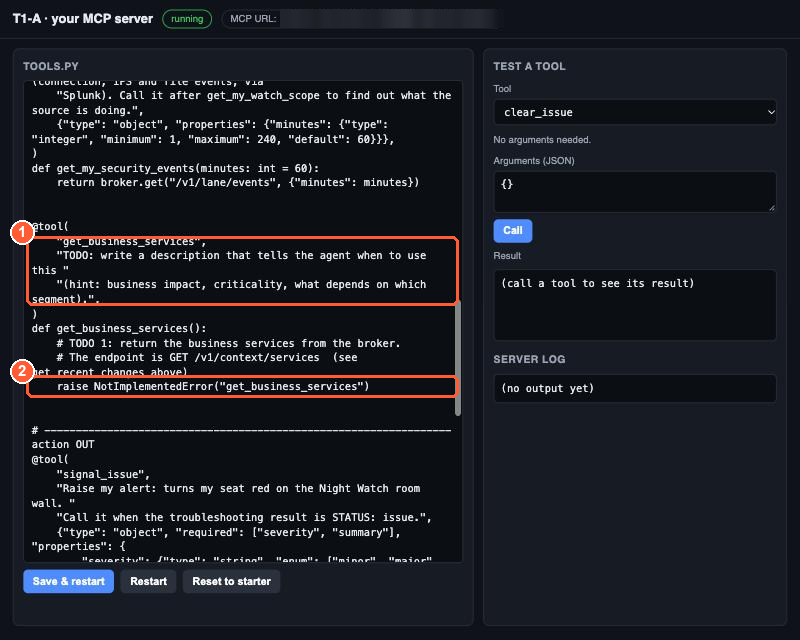
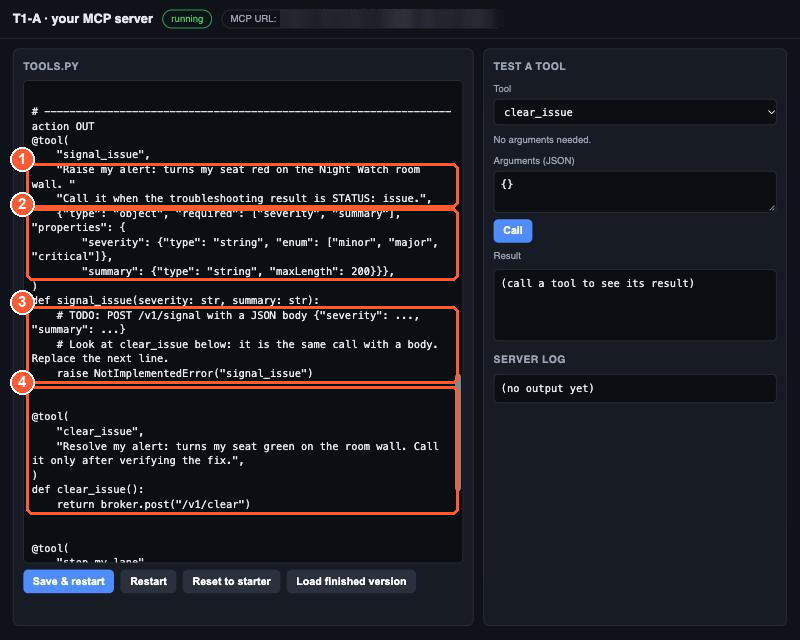
Deployed 16ea3e3 with MkDocs version: 1.6.1

Changed region(s): [[0.0, 0.125, 0.5938, 0.9062], [0.3438, 0.875, 0.5312, 0.9375]]

diff --git a/part2/3-3-custom-workflow/index.html b/part2/3-3-custom-workflow/index.html
@@ -1381,11 +1381,21 @@ tenant would then act as your seat.</p>
 </li>
 </ul>
 <h2 id="b-your-own-workflow-pick-one-25-min">B. Your own workflow (pick one, 25 min)<a class="headerlink" href="#b-your-own-workflow-pick-one-25-min" title="Permanent link">¶</a></h2>
+<div class="admonition info">
+<p class="admonition-title">Step B is practice, not setup</p>
+<p>Your agent already has everything it needs for Lights Out from step A. Step B is where you learn how
+a custom integration is built, so you can do the same with your own company's systems later. Pick
+<strong>one</strong> path. <strong>Path A</strong> needs no code. <strong>Path B</strong> shows the code behind a tool: one small edit, and
+a button that fills in the answer if you would rather just see it work.</p>
+</div>
 <div class="tabbed-set tabbed-alternate" data-tabs="1:2"><input checked="checked" id="__tabbed_1_1" name="__tabbed_1" type="radio"><input id="__tabbed_1_2" name="__tabbed_1" type="radio"><div class="tabbed-labels"><label for="__tabbed_1_1">Path A: REST API (no code)</label><label for="__tabbed_1_2">Path B: MCP server (code)</label></div>
 <div class="tabbed-content">
 <div class="tabbed-block">
-<p>You import the Lab Actions API from its OpenAPI spec and make it <em>yours</em> by rewriting how the
-agent should use each operation.</p>
+<p><strong>What you are building.</strong> Most company systems already have a REST API described by an <strong>OpenAPI
+spec</strong>: a file listing every operation, its URL and its arguments. Studio can turn that spec straight
+into tools for your agent, with no code. Here you import the Lab Actions spec and make it <em>yours</em> by
+rewriting the <strong>descriptions</strong>: the sentences the agent reads to decide when to call each operation.
+A spec says <em>what</em> an operation does; your description says <em>when</em> your agent should use it.</p>
 <ol>
 <li><strong>Studio → Build → Integrations → Add → REST API</strong>.</li>
 <li><strong>Spec URL</strong>: paste your <strong>Lab Actions spec URL</strong> (or download it and upload the file).</li>
@@ -1437,12 +1447,49 @@ curl<span class="w"> </span>-s<span class="w"> </span>-X<span class="w"> </span>
 </code></pre></div>
 </div>
 <div class="tabbed-block">
-<p>You finish a small MCP server in Python and run it in your own <strong>MCP workspace</strong> on the lab
-server. Nothing to install: it runs in your browser.</p>
+<p><strong>What you are building.</strong> An <strong>MCP server</strong> is a small program that offers <em>tools</em> to an AI agent.
+Lab Tools from step A is one, written by the lab team. Here you run your own copy, finish one tool
+in it, and connect it to Studio: exactly what you would do to give an agent your own company's
+ticketing system, CMDB or any other API.</p>
+<p>Every tool has four parts. You will see them in the code:</p>
+<table>
+<thead>
+<tr>
+<th>Part</th>
+<th>What it is</th>
+<th>Who reads it</th>
+</tr>
+</thead>
+<tbody>
+<tr>
+<td><strong>Name</strong></td>
+<td>for example <code>signal_issue</code></td>
+<td>the agent, to call it</td>
+</tr>
+<tr>
+<td><strong>Description</strong></td>
+<td>one or two sentences on what it does and <em>when</em> to use it</td>
+<td>the agent, to decide whether to call it</td>
+</tr>
+<tr>
+<td><strong>Input schema</strong></td>
+<td>the arguments it takes, for example <code>severity</code> and <code>summary</code></td>
+<td>the agent, to fill in the call</td>
+</tr>
+<tr>
+<td><strong>Function</strong></td>
+<td>the Python that does the work, here one call to the Lab Tools API</td>
+<td>your server, when the agent calls</td>
+</tr>
+</tbody>
+</table>
+<p>Already done in your starter file: <code>get_recent_changes</code> and <code>get_business_services</code> (information <em>in</em>),
+and <code>clear_issue</code> (action <em>out</em>). <strong>Your one TODO is <code>signal_issue</code>.</strong> No time or no interest in code?
+Select <strong>Load finished version</strong> and skip to step 4.</p>
 <ol>
 <li>
-<p>Open <strong>Your MCP workspace</strong> and paste your seat token. You see your own copy of <code>tools.py</code>, a
-   test panel and your server's log.</p>
+<p><strong>Open your MCP workspace</strong> and paste your seat token. It is your own copy of the server, running
+   on the lab server. Nothing to install.</p>
 <div class="sc-copytable" markdown="">
 <table>
 <thead>
@@ -1463,56 +1510,46 @@ server. Nothing to install: it runs in your browser.</p>
 </tbody>
 </table>
 </div>
+<p><a class="glightbox" data-type="image" data-width="100%" data-height="auto" href="../../img/22-workspace-overview.png" data-desc-position="bottom"><img alt="22-workspace-overview" loading="lazy" src="../../img/22-workspace-overview.png"></a></p>
+<p><em>Your workspace: (1) <code>tools.py</code>, your server's code, (2) Save &amp; restart runs your edits, (3) Load finished version fills in the answer, (4) running or stopped, (5) Test a tool calls a tool the way an agent would, (6) Server log shows errors.</em></p>
 </li>
 <li>
-<p><strong>Find TODO 1.</strong> In the <code>tools.py</code> editor, scroll down to <code>def get_business_services():</code>. It has two
-   placeholders: a description that starts with <code>"TODO:</code> and a line that says
-   <code>raise NotImplementedError(...)</code>. Each TODO below is the same move: <strong>replace one line</strong> with a
-   line that calls the Lab Tools API. <code>get_recent_changes</code>, just above it, is a finished example.</p>
+<p><strong>Read the finished <code>clear_issue</code>, then find your TODO.</strong> Scroll down to the <code>action OUT</code> section.
+   <code>@tool(...)</code> registers a tool: its name, its description and its input schema. The function under
+   it is what runs. <code>clear_issue</code> is complete: <code>broker.post("/v1/clear")</code> sends an HTTPS POST to Lab
+   Tools with your seat token already attached, and whatever it returns goes back to the agent.
+   <code>signal_issue</code>, just above it, is the same idea with a body, and still says
+   <code>raise NotImplementedError(...)</code>.</p>
 <p><a class="glightbox" data-type="image" data-width="100%" data-height="auto" href="../../img/22a-workspace-todo.png" data-desc-position="bottom"><img alt="22a-workspace-todo" loading="lazy" src="../../img/22a-workspace-todo.png"></a></p>
-<p><em>TODO 1 in the editor: (1) the placeholder description (step 5), (2) the line to replace.</em></p>
+<p><em><code>signal_issue</code>: (1) the description the agent reads, (2) the input schema: severity and summary, (3) your TODO: the line to replace, (4) <code>clear_issue</code>, finished, as your example.</em></p>
 </li>
 <li>
-<p><strong>Replace the three <code>raise NotImplementedError</code> lines.</strong> Select the whole line, including its four
-   leading spaces, and paste the replacement (it keeps the four spaces, so it stays inside the function):</p>
-<p><strong>TODO 1</strong>, in <code>get_business_services</code>: replace <code>raise NotImplementedError("get_business_services")</code> with</p>
-<div class="highlight"><pre><span></span><code>    <span class="k">return</span> <span class="n">broker</span><span class="o">.</span><span class="n">get</span><span class="p">(</span><span class="s2">"/v1/context/services"</span><span class="p">)</span>
-</code></pre></div>
-<p><strong>TODO 2</strong>, in <code>signal_issue</code>: replace <code>raise NotImplementedError("signal_issue")</code> with (it sends the severity and summary the agent passes in)</p>
+<p><strong>Finish <code>signal_issue</code>.</strong> Select the whole <code>raise NotImplementedError("signal_issue")</code> line,
+   including its four leading spaces, and paste this in its place:</p>
 <div class="highlight"><pre><span></span><code>    <span class="k">return</span> <span class="n">broker</span><span class="o">.</span><span class="n">post</span><span class="p">(</span><span class="s2">"/v1/signal"</span><span class="p">,</span> <span class="p">{</span><span class="s2">"severity"</span><span class="p">:</span> <span class="n">severity</span><span class="p">,</span> <span class="s2">"summary"</span><span class="p">:</span> <span class="n">summary</span><span class="p">})</span>
 </code></pre></div>
-<p><strong>TODO 3</strong>, in <code>clear_issue</code>: replace <code>raise NotImplementedError("clear_issue")</code> with</p>
-<div class="highlight"><pre><span></span><code>    <span class="k">return</span> <span class="n">broker</span><span class="o">.</span><span class="n">post</span><span class="p">(</span><span class="s2">"/v1/clear"</span><span class="p">)</span>
-</code></pre></div>
-<p><code>broker.get</code> and <code>broker.post</code> already add your seat token, so you never type it in the code.
-Leave TODO 4 (<code>stop_my_lane</code>) as it is: the shared Lab Tools already has it, and it is a stretch goal.</p>
+<p>What it does: <code>severity</code> and <code>summary</code> are the arguments the agent passes in (they match the
+input schema). <code>broker.post</code> sends them as JSON to the Lab Tools <code>/v1/signal</code> endpoint, which turns
+your tile red on the room wall. You never put your token in the code: the server adds it.</p>
 </li>
 <li>
-<p><strong>Write the description for <code>get_business_services</code>.</strong> The description is what the agent reads to
-   decide <em>when</em> to call a tool. In the <code>@tool(</code> block above <code>def get_business_services():</code>, replace the
-   two lines that start with <code>"TODO: write a description</code> and <code>"(hint:</code> with your own words, or with:</p>
-<div class="highlight"><pre><span></span><code>    <span class="s2">"PseudoCo business services: criticality, business hours, owner, cost of downtime and "</span>
-    <span class="s2">"what each depends on. Call it to turn a network finding into business impact and severity."</span><span class="p">,</span>
-</code></pre></div>
-<p>Keep the quotes and the comma at the end.</p>
-</li>
-<li>
-<p><strong>Save and test.</strong> Select <strong>Save &amp; restart</strong>. A syntax error is refused, with its line number, and
-   your running server keeps the last good version. When it works, the message says your server
-   restarted and the status pill shows <strong>running</strong>.</p>
+<p><strong>Save &amp; restart.</strong> Your server restarts with the new code and the pill shows <strong>running</strong>. A syntax
+   error is refused with its line number, and your server keeps the last good version.</p>
 <p><a class="glightbox" data-type="image" data-width="100%" data-height="auto" href="../../img/22b-workspace-saved.png" data-desc-position="bottom"><img alt="22b-workspace-saved" loading="lazy" src="../../img/22b-workspace-saved.png"></a></p>
-<p><em>After the edits: (1) the new description, (2) TODO 1 done, (3) Save &amp; restart, (4) the confirmation.</em></p>
-<p>Then, in <strong>Test a tool</strong>: pick <code>signal_issue</code>. The example arguments fill in for you (or paste
-them), select <strong>Call</strong>, and your tile turns red on the room wall. Pick <code>clear_issue</code> and <strong>Call</strong> to
-turn it green.</p>
+<p><em>(1) Your new line, (2) Save &amp; restart, (3) the confirmation.</em></p>
+</li>
+<li>
+<p><strong>Test it like an agent would.</strong> In <strong>Test a tool</strong>, pick <code>signal_issue</code>. The example arguments fill
+   in for you (or paste them), then select <strong>Call</strong>. Your tile turns red on the room wall. Pick
+   <code>clear_issue</code> and <strong>Call</strong> to turn it green.</p>
 <div class="highlight"><pre><span></span><code><span class="p">{</span><span class="nt">"severity"</span><span class="p">:</span><span class="w"> </span><span class="s2">"minor"</span><span class="p">,</span><span class="w"> </span><span class="nt">"summary"</span><span class="p">:</span><span class="w"> </span><span class="s2">"MCP test"</span><span class="p">}</span>
 </code></pre></div>
 <p><a class="glightbox" data-type="image" data-width="100%" data-height="auto" href="../../img/22c-workspace-test.png" data-desc-position="bottom"><img alt="22c-workspace-test" loading="lazy" src="../../img/22c-workspace-test.png"></a></p>
 <p><em>Test a tool: (1) the tool, (2) its arguments, (3) Call, (4) the result: your light is on, (5) your server is running.</em></p>
 </li>
 <li>
-<p>Register it in Studio as in step A, but with <strong>your</strong> workspace's URL (also shown at the top of
-   the workspace):</p>
+<p><strong>Connect it to Studio</strong>, as in step A but with <strong>your</strong> workspace's URL (also shown at the top of
+   the workspace). Studio then discovers your tools, including the one you just finished.</p>
 <div class="sc-copytable" markdown="">
 <table>
 <thead>
@@ -1552,12 +1589,15 @@ turn it green.</p>
 </li>
 </ol>
 <p><strong>Done when:</strong> your own <code>signal_issue</code> turns your tile red, and Studio discovers your tools.</p>
+<p><strong>Stretch:</strong> finish <code>stop_my_lane</code> the same way (<code>broker.post("/v1/lane/stop")</code>), write its
+description so the agent knows it needs a human's approval, then in Studio make the tool require
+approval.</p>
 <div class="admonition info">
 <p class="admonition-title">What runs where</p>
 <p>Your code runs in its own locked-down process on the lab server: it can call the Lab Tools
 API and the internet, but nothing else in the lab network, and it cannot see anyone else's
-workspace. Stuck? <strong>Reset to starter</strong> restores the original file; the answers are in the
-take-home kit (<code>tools_solution.py</code>).</p>
+workspace. <strong>Reset to starter</strong> puts the original file back; <strong>Load finished version</strong> shows the
+answers (the take-home kit has them as <code>tools_solution.py</code>).</p>
 </div>
 </div>
 </div>
